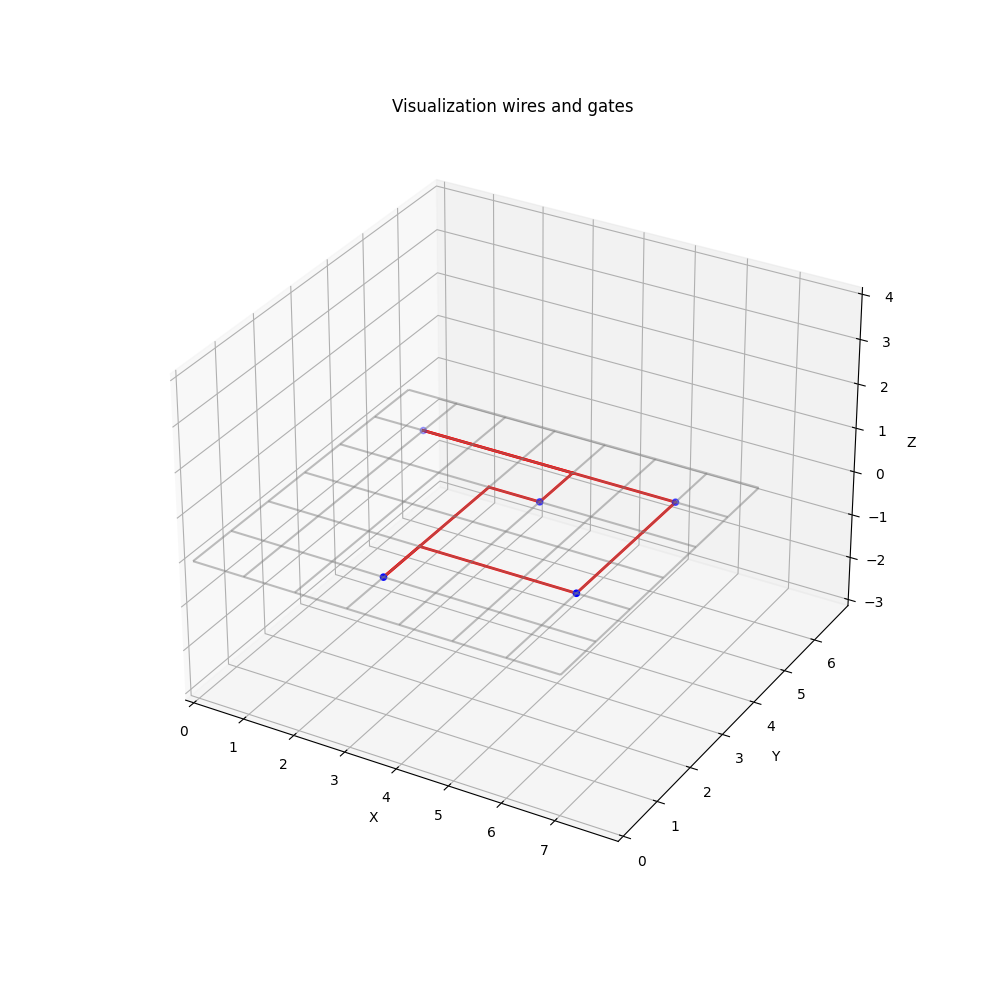
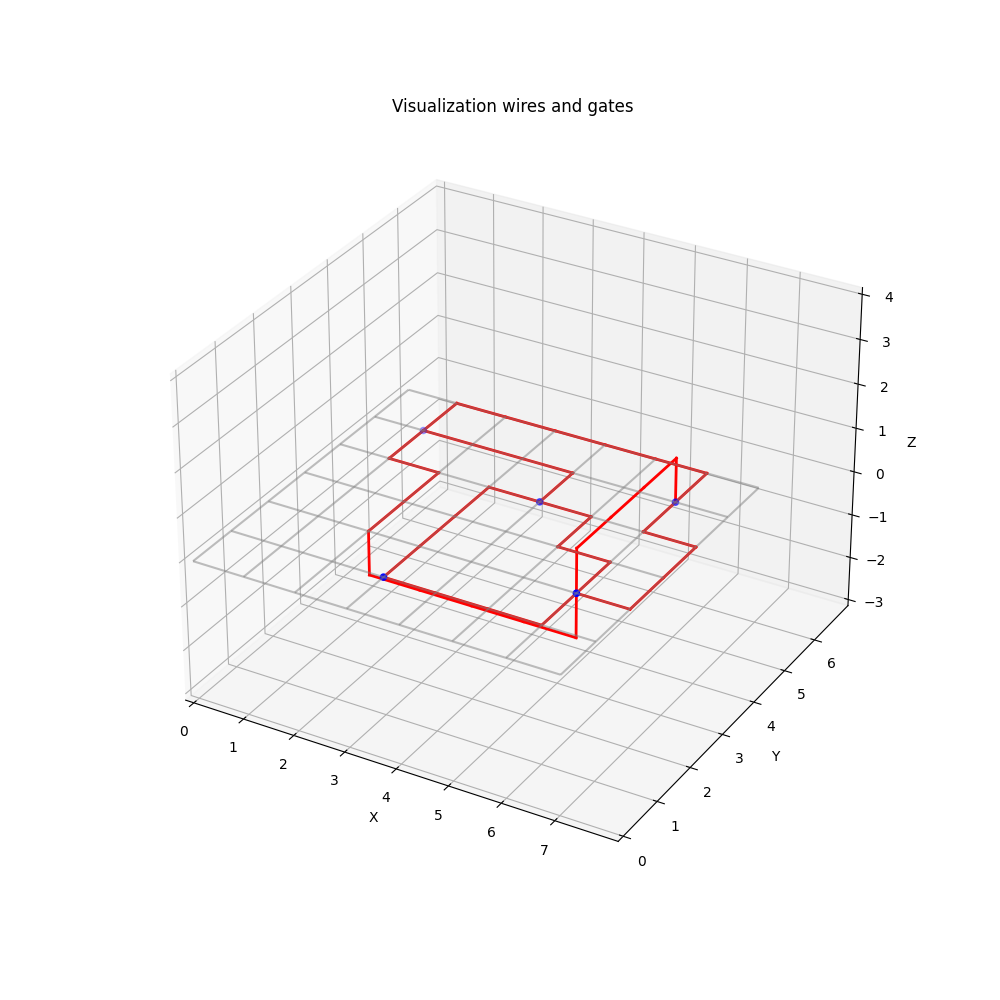
testing agaaaaain betteer

diff --git a/Code/main.py b/Code/main.py
@@ -32,7 +32,6 @@ def choose_algorithm(algorithm, chip, order_choice):
         order_choice (str): choice in order of connections made by algorithm.
     """
     chip.wire_connections = change_netlist_order(chip, order_choice)
-    n = 10
     # if greedy is selected, run the greedy algorithm
     if algorithm == "greedy":
         greedy_algorithm(chip)
@@ -52,68 +51,6 @@ def choose_algorithm(algorithm, chip, order_choice):
     elif algorithm == "hillclimber":
         hillclimber_algorithm(chip)
 
-def main():
-    """
-    main function, calling to 
-    """
-    # check for valid usage
-    if len(argv) not in [1, 2, 3, 4, 5]:
-        print("Usage: python main.py [number_chip] [number_netlist] [algorithm] [sorting_order]")
-        print("sorting order cosists of: \"basic\", \"random\", \"short\", \"long\", \"most-connections\", \"least-connections\"")
-        exit(1)
-
-    if len(argv) == 2:
-        if argv[1] == "ordertest":
-            test("order")
-        elif argv[1] == "average_random":
-            test("average_random")
-        elif argv[1] == "average_random2D":
-            test("average_random2D")
-        elif argv[1] == "average_hillclimber":
-            test("average_hillclimber")
-        else:
-            print("Usage: python main.py [number_chip] [number_netlist] [algorithm] [sorting_order]")
-
-    else:
-        # get all the necessary information.
-        number_chip = 0
-        number_netlist = 1
-        number_gates_file = 0
-        algorithm = "greedy"
-        order_choice = "basic"
-
-        # if we have a third argument, we should take that as our netlists.
-        if len(argv) in [3, 4, 5]:
-            number_chip = argv[1]
-            number_netlist = argv[2]
-            number_gates_file = argv[1]
-
-            # if we have a fourth argument, then it specifies our algorithm
-            if len(argv) in [4, 5]:
-                algorithm = argv[3]
-
-                # check for order argument
-                if len(argv) == 5:
-                    order_choice = argv[4]
-
-        netlist = f"netlist_{number_netlist}"
-        chip_id = f"{number_chip}"
-        gates_file = f"print_{number_gates_file}"
-
-        # make new chip
-        chip = Chip(chip_id, netlist, gates_file)
-
-        # load everything
-        chip.load_gates()
-        chip.load_netlist()
-
-        # run algorithm and output
-        choose_algorithm(algorithm, chip, order_choice)
-        print("final:", chip.calculate_cost())
-        visualize(chip.gate_list, chip.grid, chip.wires)
-
-        chip.output_to_csv()
-
 def get_number_chip(netlist_number):
     if netlist_number in ["1","2","3"]:
         number_chip = 0
@@ -127,7 +64,6 @@ def get_number_chip(netlist_number):
     return number_chip
 
 def main2():
-
     # check for second argument
     if len(argv) in [1,3]:
         n = 0
@@ -194,8 +130,8 @@ def main2():
         order = input("Sorting order: ")
         while order not in ["basic", "random", "reverse","long","least-connections","most-connections","sum-lowest","sum-highest","outside","intra-quadrant","manhattan", "short", "middle", "inter-quadrant","x","y","x-rev","y,rev", "weighted"]:
             order = input("Please choose one of the following orders: \nbasic, random, reverse, long, least-connections, most-connections, sum-lowest, sum-highest, outside, intra-quadrant, manhattan, short, middle, inter-quadrant, x, y, x-rev, y, rev, weighted\n")
-        test("order", algorithm, netlist_number)
-            
+        
+        print(f"---chip: {number_chip} and netlist: {netlist_number}-------------------")    
         netlist = f"netlist_{netlist_number}"
         chip_id = f"{number_chip}"
         gates_file = f"print_{number_chip}"

diff --git a/Code/algorithms/hillclimber.py b/Code/algorithms/hillclimber.py
@@ -2,6 +2,8 @@
 # Hill Climber's algorithm
 ###################################################
 import sys
+import math
+import random
 from randomize import random_add_wire
 from greedy import greedy_algorithm
 from astar import *
@@ -26,45 +28,61 @@ def hillclimber_algorithm(chip:object):
     # initialize moving possibilities
     possibilities = [[0, 0, 1], [0, 1, 0], [1, 0, 0], [-1, 0, 0], [0, -1, 0], [0, 0, -1]]
     # for every wire
+    i = 0
+    start_t = 100
+    while True:
 
-    for connection in chip.wire_connections:
+        random.shuffle(chip.wire_connections)
+        for connection in chip.wire_connections:
 
-        # get gate a and gate b
-        gate_a = connection[0]
-        gate_b = connection[1]
-        # print(gate_a, gate_b)
+            
+            # get gate a and gate b
+            gate_a = connection[0]
+            gate_b = connection[1]
+            # print(gate_a, gate_b)
 
-        # get the associated wire
-        wire = chip.wires[f"{gate_a}-{gate_b}"]
+            # get the associated wire
+            wire = chip.wires[f"{gate_a}-{gate_b}"]
 
-        old_wire = wire.wireparts
-        old_cost = chip.calculate_cost()
+            old_wire = wire.wireparts
+            old_cost = chip.calculate_cost()
 
-        j = 0
-        # repeat
-        while True:
+            j = 0
+            # repeat
+            while True:
 
-            new_cost = 0
-            wire.wireparts = []
+                new_cost = 0
+                wire.wireparts = []
 
-            # add random new wire and calculate new cost
-            random_add_wire(possibilities, wire, chip)
-            new_cost = chip.calculate_cost()
+                # add random new wire and calculate new cost
+                random_add_wire(possibilities, wire, chip)
+                new_cost = chip.calculate_cost()
 
-            # if good move: new wire is now the old wire
-            if new_cost <= old_cost: 
-                old_wire = wire.wireparts
-                old_cost = new_cost
+                difference = old_cost - new_cost
+                temperature = start_t*0.999999999**i
+                accept = (2 ** difference)/temperature
+                r = random.random()
+                if r < accept:
+                # if good move: new wire is now the old wire
+                # if new_cost <= old_cost: 
+                    old_wire = wire.wireparts
+                    old_cost = new_cost
+                    print("accept:", new_cost)
 
-            # else if bad move, wire becomes old wire again
-            else:
-                wire.wireparts = old_wire
+                # else if bad move, wire becomes old wire again
+                else:
+                    wire.wireparts = old_wire
 
-            j += 1
+                j += 1
 
-            # repeat this ... times
-            if j == 10000:
-                print("connected")
-                break
+                # repeat this ... times
+                if j == 20:
+                    # print("connected")
+                    break
 
-    
+        i += 1
+        # repeat this ... times
+        if i == 1000:
+            print("done")
+            break
+
